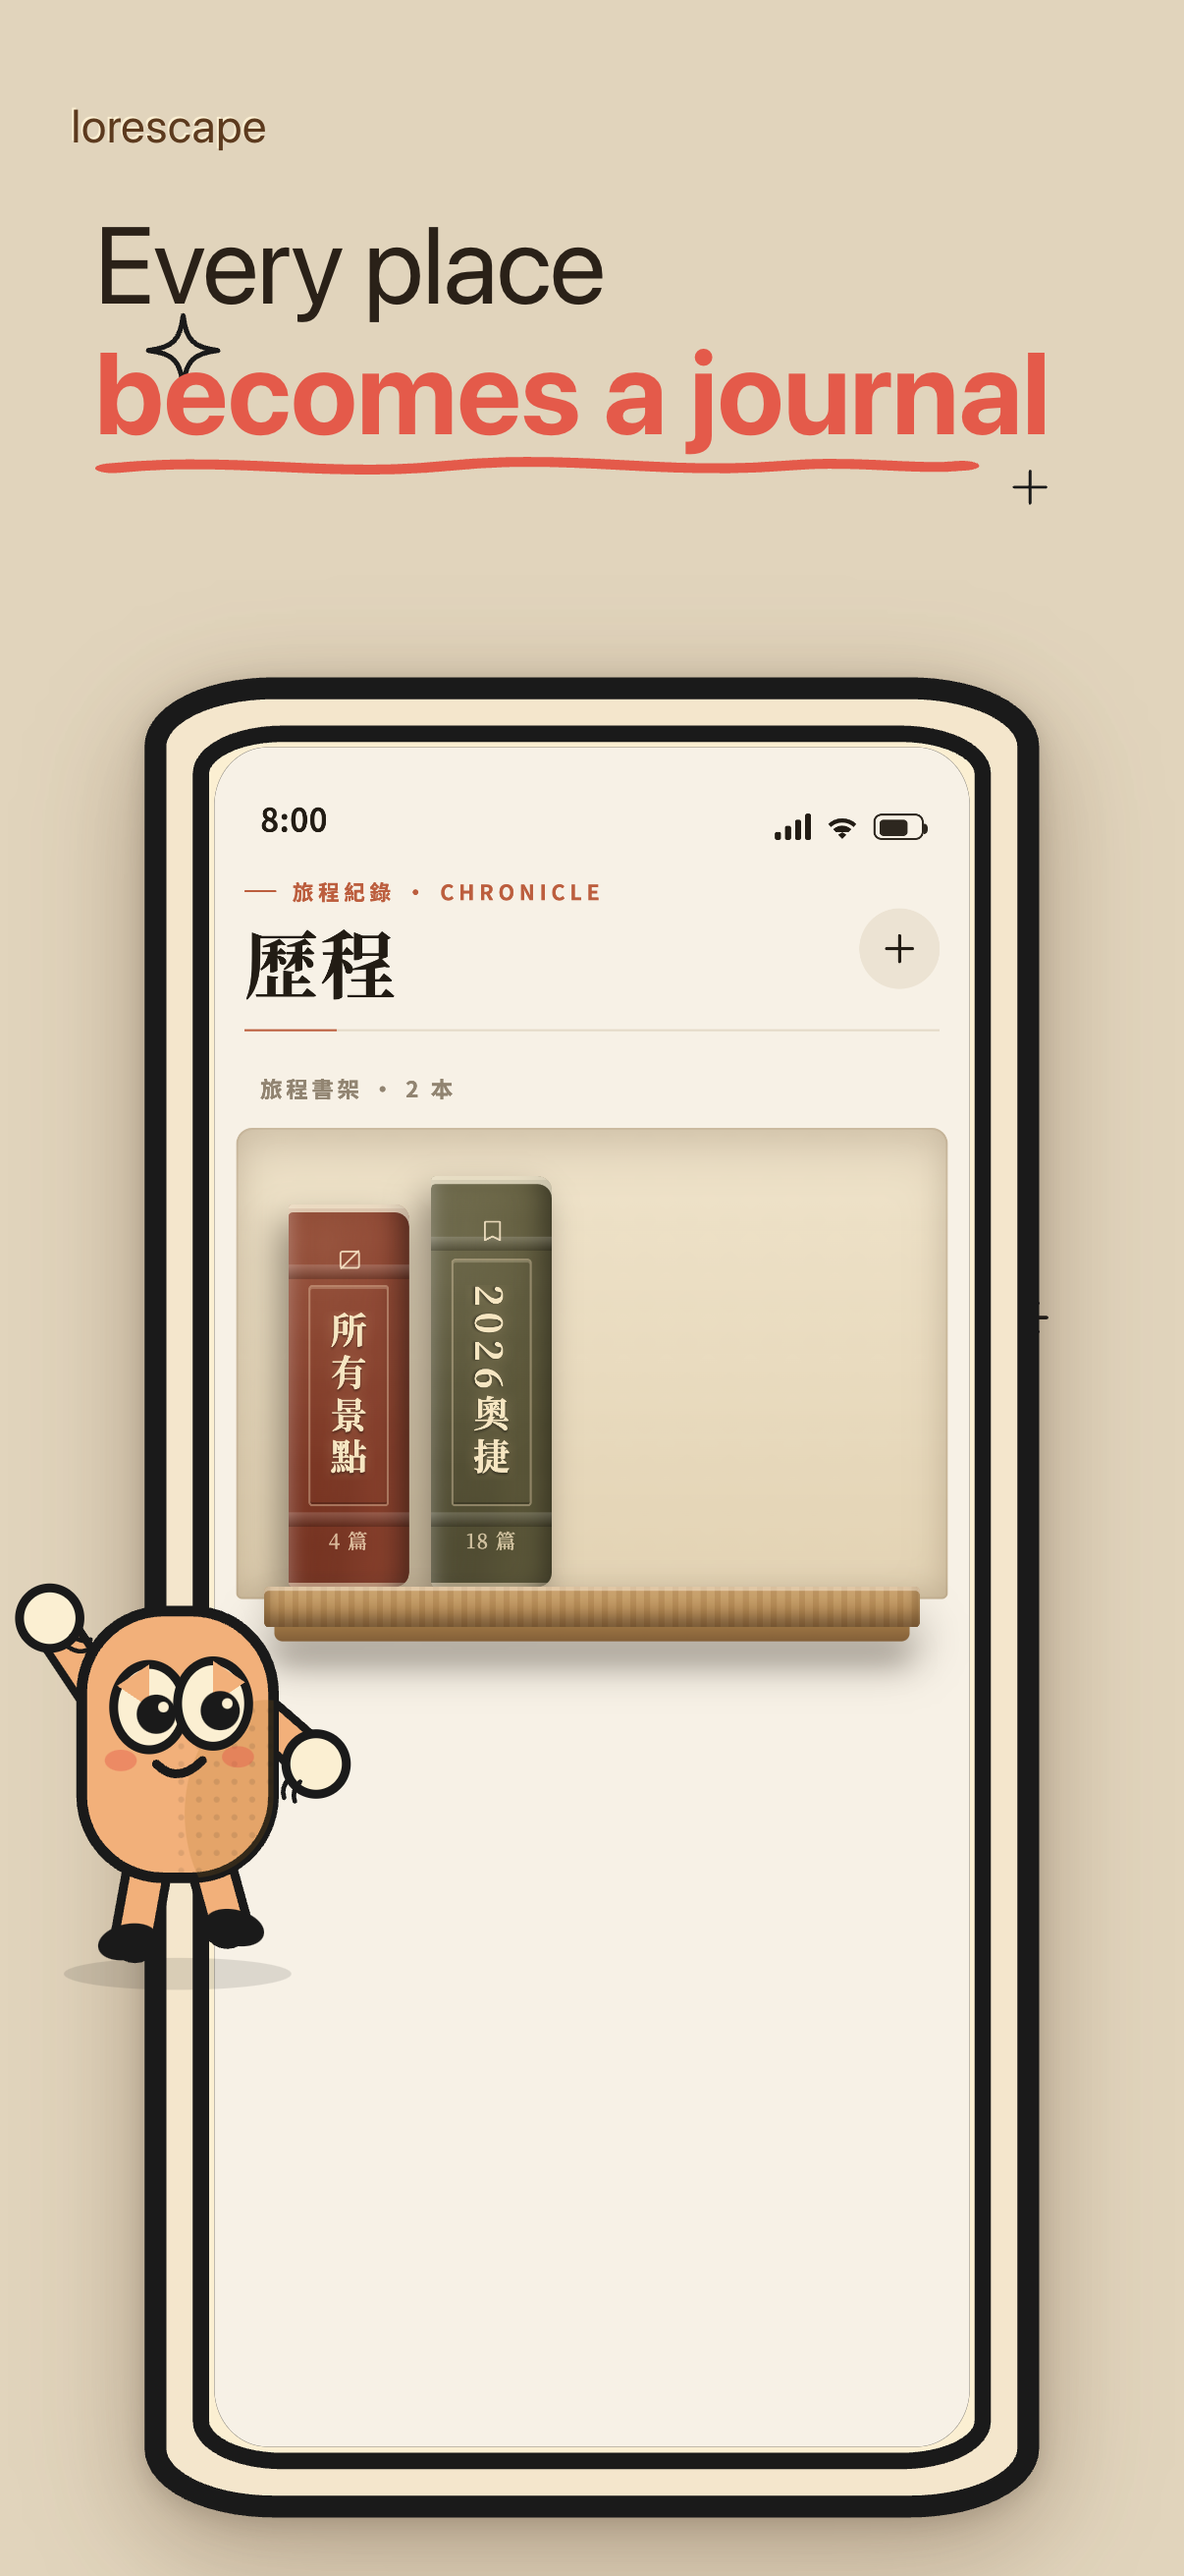
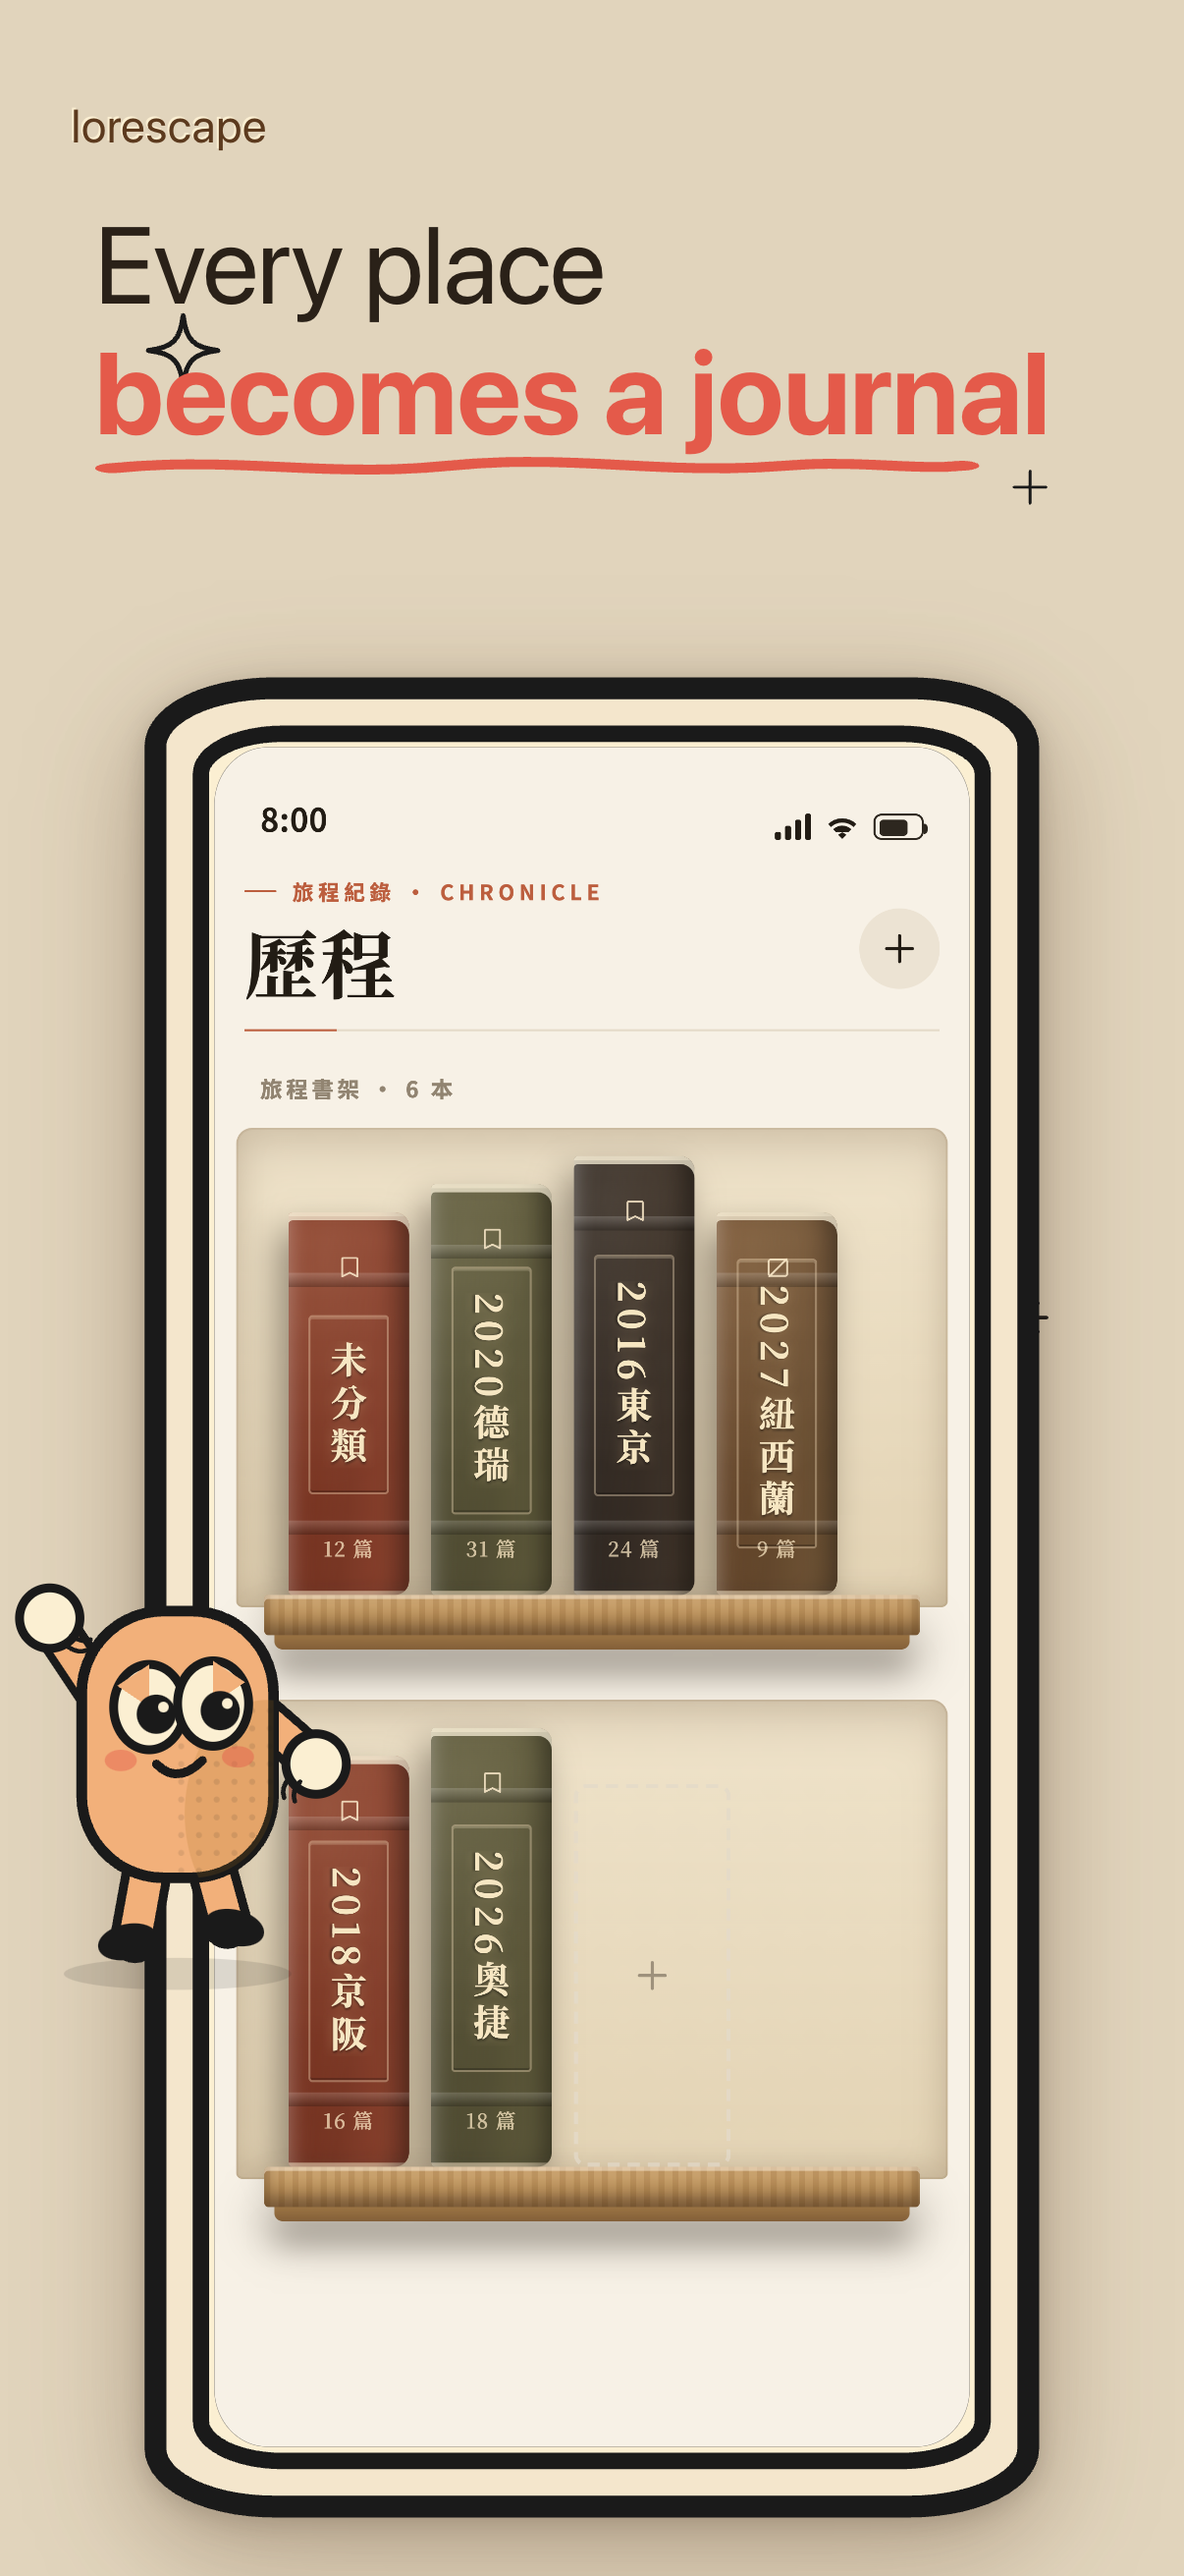
chore(marketing): 截圖歷程頁改為多層書架（6 本）
原本只有 2 本書、下半頁留白。比照實機畫面改成兩層書架、6 本旅程手記
＋新增虛線框；設計原型仍是單層，故在 capture harness 內以同一組 CSS
class 重繪，未動 docs/design/project 的原始檔。

Changed region(s): [[0.1841, 0.4325, 0.8284, 0.8959]]

diff --git a/marketing/screenshots/editor/capture/_capture_v3.html b/marketing/screenshots/editor/capture/_capture_v3.html
@@ -36,6 +36,61 @@
 <script type="text/babel" src="app3/screens_map.jsx"></script>
 <script type="text/babel" data-presets="react">
   const noop = () => {};
+
+  // 行銷截圖用的歷程書架：比照實機為多層書架（每層 4 本），
+  // 設計原型仍是單層，故在 harness 內重繪，沿用同一組 CSS class。
+  const SHELF_TRIPS = [
+    { id:"uncat",  name:"未分類",    count:"12 篇", filled:true },
+    { id:"de2020", name:"2020德瑞",  count:"31 篇", filled:true },
+    { id:"tk2016", name:"2016東京",  count:"24 篇", filled:true },
+    { id:"nz2027", name:"2027紐西蘭", count:"9 篇",  filled:false },
+    { id:"kx2018", name:"2018京阪",  count:"16 篇", filled:true },
+    { id:"oc2026", name:"2026奧捷",  count:"18 篇", filled:true },
+  ];
+  function ShelfRow({ books, addSlot }){
+    return (
+      <div className="shelf">
+        <div className="shelf__books">
+          {books.map((t, idx)=>(
+            <div key={t.id} className={"book book--"+["a","c","b","d"][t.i%4]}
+                 style={{height: 190 + (t.i%3)*14}}>
+              <div className="book__badge"><window.Icon name={t.filled?"book":"image-off"} size={13}/></div>
+              <div className="book__label"><div className="book__title">{t.name}</div></div>
+              <div className="book__count">{t.count}</div>
+            </div>
+          ))}
+          {addSlot && (
+            <div style={{width:78, height:190, borderRadius:6, alignSelf:"flex-end",
+                         border:"2px dashed var(--line)", display:"grid", placeItems:"center",
+                         color:"var(--ink-3)", opacity:.85}}>
+              <window.Icon name="plus" size={22}/>
+            </div>
+          )}
+        </div>
+        <div className="shelf__plank"/>
+      </div>
+    );
+  }
+  function HistoryShelfScreen(){
+    const { StatusBar, Masthead, Icon } = window;
+    const rows = [SHELF_TRIPS.slice(0,4).map((t,i)=>({...t,i})),
+                  SHELF_TRIPS.slice(4).map((t,i)=>({...t,i:i+4}))];
+    return (
+      <div className="screen fade-enter">
+        <StatusBar dark time="8:00"/>
+        <div className="screen__scroll">
+          <Masthead eyebrow="旅程紀錄 · Chronicle" title="歷程"
+            actions={<button className="iconbtn" style={{background:"var(--paper-sunk)"}}><Icon name="plus" size={22}/></button>}/>
+          <div className="bookshelf">
+            <div className="shelf__cap">旅程書架 · {SHELF_TRIPS.length} 本</div>
+            <ShelfRow books={rows[0]}/>
+            <ShelfRow books={rows[1]} addSlot/>
+          </div>
+        </div>
+      </div>
+    );
+  }
+
   const { HomeScreen, PlaceScreen, ReaderView, HistoryScreen, MapScreen } = window;
   const { PLACES, STPETERS_STORY } = window.LS_DATA;
   function screenFor(name){
@@ -43,7 +98,7 @@
       case "home":    return <HomeScreen go={noop}/>;
       case "hooks":   return <PlaceScreen params={{ place: PLACES.find(p=>p.id==="stpeters") }} back={noop}/>;
       case "reader":  return <ReaderView story={STPETERS_STORY} onBack={noop}/>;
-      case "history": return HistoryScreen ? <HistoryScreen go={noop}/> : <div>no HistoryScreen</div>;
+      case "history": return <HistoryShelfScreen/>;
       case "map":     return <MapScreen params={{mode:"locate"}} back={noop} go={noop} openSheet={noop} saved={["temple"]}/>;
       default:        return <HomeScreen go={noop}/>;
     }
